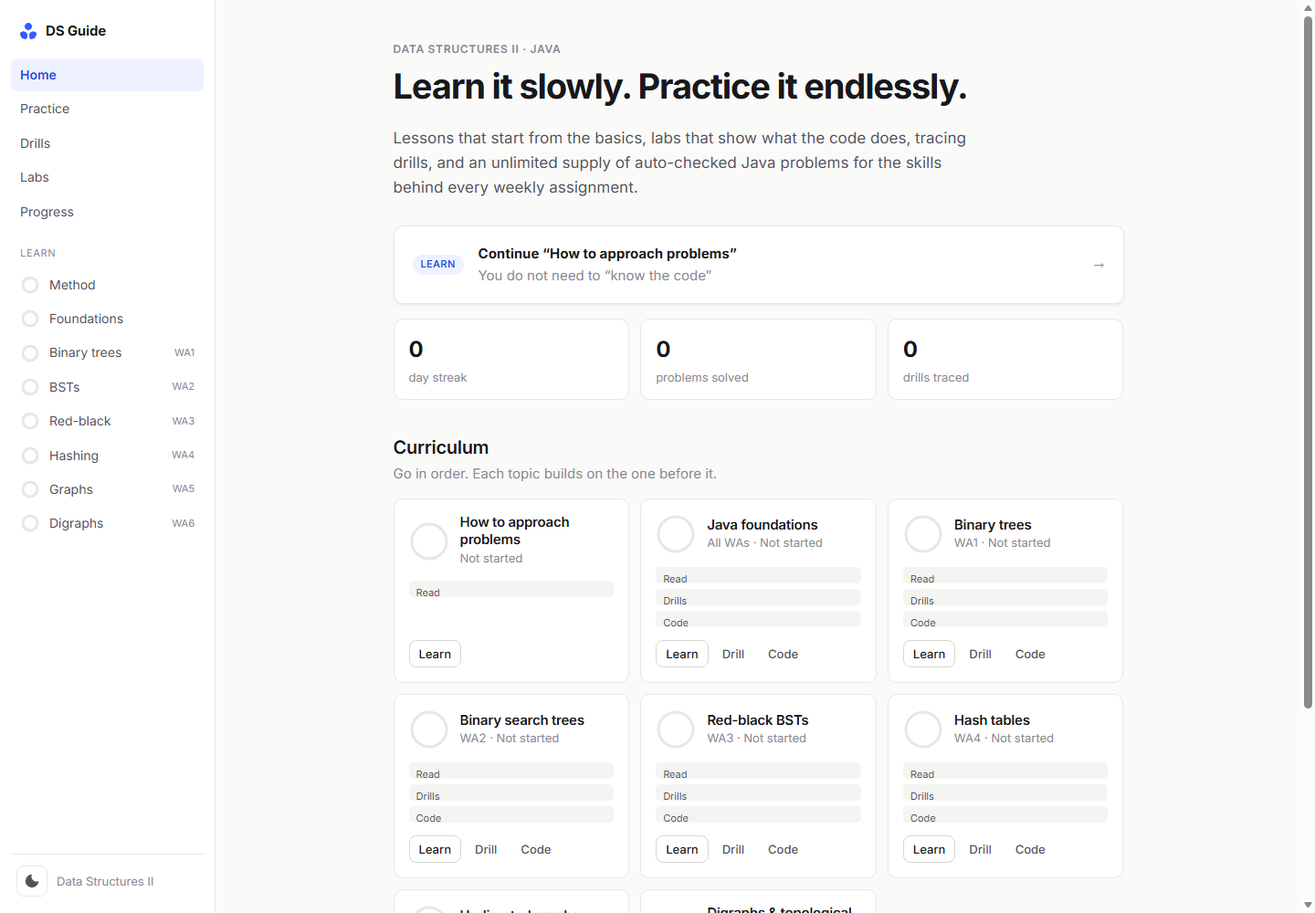
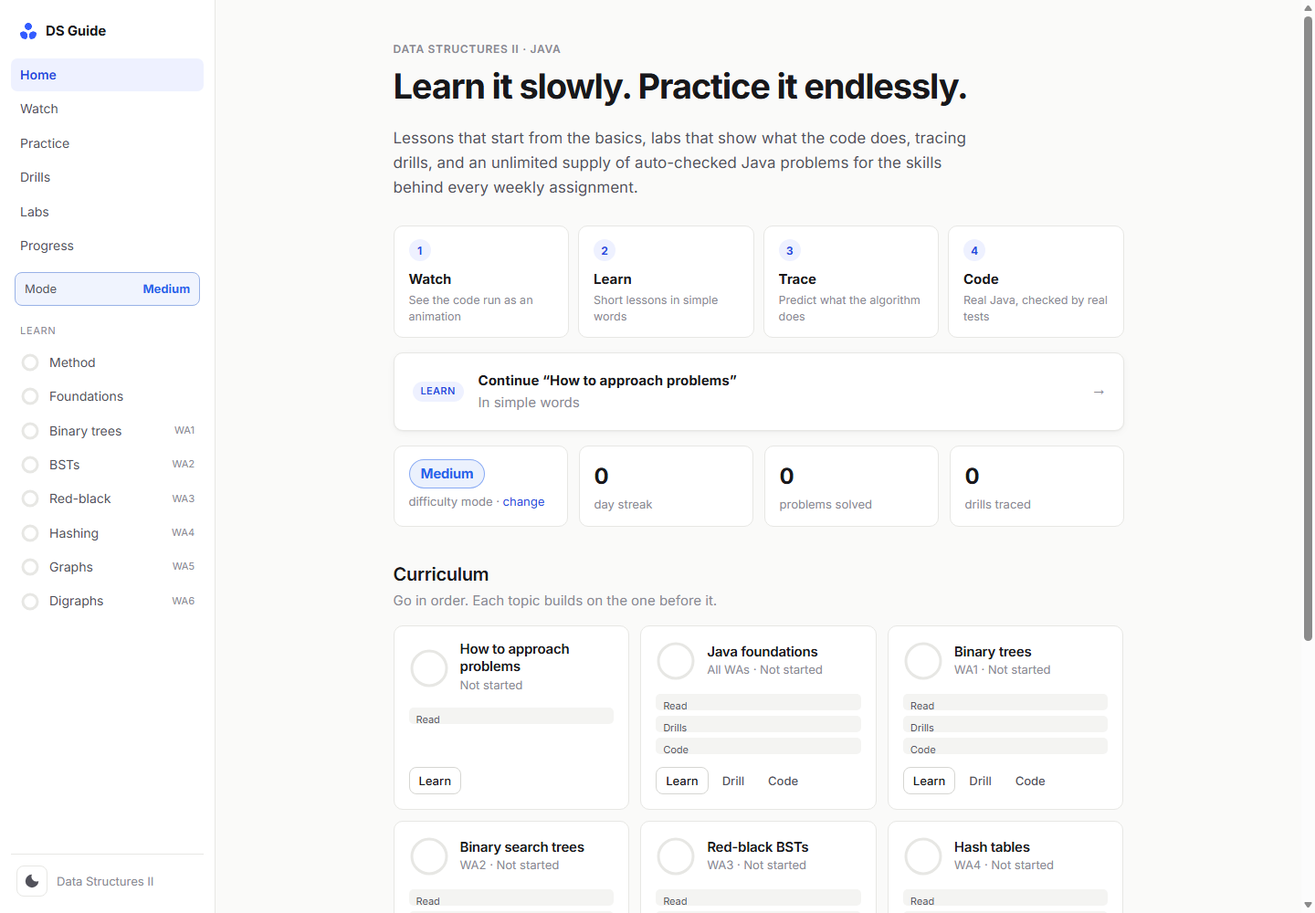
docs: v2.0.0 README, CHANGELOG and screenshots
README covers modes, animations, the security model and architecture;
CHANGELOG lists every change grouped as Security, Added, Changed and
Fixed. Version bumped to 2.0.0.

diff --git a/README.md b/README.md
@@ -2,16 +2,17 @@
 
 # Data Structures Guide
 
-**An interactive, self-hosted study platform for Data Structures II in Java.**
-Lessons that start from the basics, visual labs, randomized tracing drills, and an unlimited generator of auto-graded Java coding problems.
+**A self-hosted, interactive platform for learning data structures in Java, from "what is a variable?" to interview-level problems.**
+Animated code walkthroughs, lessons in simple words, tracing drills, and an unlimited generator of auto-graded Java problems across five difficulty modes.
 
+![Version](https://img.shields.io/badge/version-2.0.0-335CFF)
 ![Node](https://img.shields.io/badge/Node.js-18%2B-339933?logo=node.js&logoColor=white)
 ![Java](https://img.shields.io/badge/Java-11%2B-ED8B00?logo=openjdk&logoColor=white)
 ![Dependencies](https://img.shields.io/badge/dependencies-0-success)
-![Build](https://img.shields.io/badge/build%20step-none-blue)
-![Problems](https://img.shields.io/badge/problem%20variants-97-7c3aed)
+![Problems](https://img.shields.io/badge/problem%20variants-112-7c3aed)
+![Animations](https://img.shields.io/badge/animated%20walkthroughs-12-0f766e)
 
-<img src="docs/screenshots/home.png" alt="Dashboard" width="860">
+<img src="docs/screenshots/watch-llrb.png" alt="Animated red-black tree walkthrough" width="880">
 
 </div>
 
@@ -19,47 +20,69 @@ Lessons that start from the basics, visual labs, randomized tracing drills, and 
 
 ## Table of contents
 
-- [Overview](#overview)
+- [Why this exists](#why-this-exists)
 - [Features](#features)
+- [Difficulty modes](#difficulty-modes)
 - [Screenshots](#screenshots)
 - [Quick start](#quick-start)
 - [How it works](#how-it-works)
+- [Security model](#security-model)
 - [Curriculum](#curriculum)
 - [Project structure](#project-structure)
 - [Development](#development)
+- [Changelog](#changelog)
 - [Academic integrity](#academic-integrity)
 
-## Overview
+## Why this exists
 
-Data Structures Guide turns a data structures course into a guided path: **learn → visualize → trace → code → master**.
+Most people get stuck on data structures for one of two reasons: they can't *see* what the code is doing, or they never get enough practice. This project fixes both:
 
-Every coding problem is generated from a template with a random seed, so you get a new variant with fresh test data each time. Your Java code is compiled by a real JDK and run against a hidden test harness on your own machine. The feedback shows what matters for learning: expected vs. actual values, the exact line of a crash, infinite-loop detection, and your own `System.out` output.
-
-It runs entirely locally. There are no accounts, no cloud, no build step, and no npm packages.
+1. **Watch.** Every core algorithm is animated. The line of Java being run lights up, the tree, stack, table or graph moves on screen, and one short sentence explains what just happened.
+2. **Learn.** Each topic opens with an *In simple words* section, written at a 6th-grade reading level, before going deeper.
+3. **Trace.** Randomized drills ask you to predict what an algorithm will do, then show the worked answer.
+4. **Code.** Every click generates a fresh Java problem. Your code is compiled with a real JDK and checked by a hidden test suite.
 
 ## Features
 
 | | |
 |---|---|
-| **Structured lessons** | 8 topics and 60 bite-sized sections with highlighted Java, inline diagrams and check questions. It starts with *how to approach a problem* before any data structure. |
-| **Interactive labs** | BST insert/delete with step logs, red-black insertion next to the equivalent 2-3 tree, separate-chaining hash table with resizing, step-through DFS/BFS/DFS orders, and an expression parser. |
-| **Tracing drills** | 15 randomized drill types (traversals, Hibbard deletion, LLRB insertion, hash indices, DFS/BFS order, topological sort…), each with a worked step-by-step explanation. |
-| **Problem generator** | 30 problem types and 97 variants. Each one ships a starter file, a hidden test harness, a hint ladder, an approach guide and a reference solution. You can generate a single problem or a whole practice set. |
-| **Real compilation** | Code is compiled with `javac` and run in a throwaway sandbox with per-test timeouts. Compile errors link to the offending line in the editor. |
-| **Mastery tracking** | Per-topic mastery (reading 20%, drills 30%, coding 50%). A problem type is mastered after two clean solves of different variants. Includes adaptive difficulty, a streak counter, and progress export/import. |
-| **Learning-first design** | Hints unlock one at a time. Solutions unlock only after genuine attempts. Recursion problems flag loops. |
-| **Polished UI** | Minimal design, light and dark themes, responsive layout, keyboard shortcuts (<kbd>Ctrl</kbd>+<kbd>Enter</kbd> runs tests). |
+| **Animated walkthroughs** | 12 step-by-step animations with code highlighting, plain-words narration, live variables, play/step/scrub/speed controls, keyboard shortcuts and **read-aloud**. Nodes really move: rotations slide, successors travel, keys fly to new buckets on resize. |
+| **Teaching for everyone** | "In simple words" sections built on everyday comparisons (guessing games, mailboxes, nesting dolls), "Big idea" boxes, "Words to know" lists, hover glossary tooltips, and a "Read to me" button on every lesson. |
+| **Five difficulty modes** | Easy → Medium → Hard → Very hard → Extreme. The mode controls problem levels, starter-code scaffolding, hint limits, examples, solution unlocking and an interview clock. |
+| **Problem generator** | 38 problem types and **112 variants**, from recursion warm-ups to red-black deletion and strongly connected components. Every problem has fresh random test data. |
+| **Real compilation** | Code is compiled with `javac` and run in a sandbox with per-test timeouts. You see expected vs. actual values, crash lines, infinite-loop detection and your own `System.out` output. |
+| **Tracing drills** | 15 randomized drill types whose input size follows your mode, each with a step-by-step explanation. |
+| **Interactive labs** | BST, red-black (with the matching 2-3 tree), hash table, graph search and expression-parsing sandboxes. |
+| **Mastery tracking** | Per-topic mastery (reading 20%, drills 30%, coding 50%). A problem type is mastered after two clean solves of different variants. Includes a streak counter and progress export/import. |
+| **Protected answers** | Hidden tests and reference solutions never reach the browser (see [Security model](#security-model)). |
+| **Polished UI** | Minimal design, light and dark themes, responsive layout, `prefers-reduced-motion` support, zero dependencies, no build step. |
+
+## Difficulty modes
+
+| Mode | Problem levels | Starter code | Hints | Examples | Solution unlocks |
+|---|---|---|---|---|---|
+| 🟢 **Easy** | 1 | Step-by-step plan written into the code | All | All | After 1 run |
+| 🔵 **Medium** | 1–2 | Normal | All | All | After a real attempt |
+| 🟠 **Hard** | 2–3 | Lean comments | 2 | All | After 4 runs |
+| 🔴 **Very hard** | 3–4 | Bare signatures | 1 | 1 | Only after passing |
+| 🟣 **Extreme** | 4–5 | Bare signatures | 0 | 0 | Only after passing · 30-min clock |
+
+All of these rules are enforced by the server, not the browser.
 
 ## Screenshots
 
 <table>
   <tr>
-    <td width="50%"><img src="docs/screenshots/problem.png" alt="Problem workspace"><p align="center"><sub>Problem workspace: task, hints and a real Java editor</sub></p></td>
-    <td width="50%"><img src="docs/screenshots/lesson.png" alt="Lesson"><p align="center"><sub>Lessons with highlighted code and embedded labs</sub></p></td>
+    <td width="50%"><img src="docs/screenshots/watch-dfs.png" alt="DFS walkthrough"><p align="center"><sub>Depth-first search with the call stack and visit order</sub></p></td>
+    <td width="50%"><img src="docs/screenshots/watch-hash.png" alt="Hash walkthrough"><p align="center"><sub>Hash table with chaining, mid-insert</sub></p></td>
   </tr>
   <tr>
-    <td width="50%"><img src="docs/screenshots/graph-lab.png" alt="Graph lab"><p align="center"><sub>Step-through DFS / BFS with marked[], edgeTo[] and the call stack</sub></p></td>
-    <td width="50%"><img src="docs/screenshots/drills-dark.png" alt="Drills in dark mode"><p align="center"><sub>Randomized tracing drills (dark mode)</sub></p></td>
+    <td width="50%"><img src="docs/screenshots/lesson-simple.png" alt="Simple words lesson"><p align="center"><sub>"In simple words" lesson with an embedded animation</sub></p></td>
+    <td width="50%"><img src="docs/screenshots/practice-modes.png" alt="Modes"><p align="center"><sub>Problem generator with five difficulty modes</sub></p></td>
+  </tr>
+  <tr>
+    <td width="50%"><img src="docs/screenshots/problem.png" alt="Problem workspace"><p align="center"><sub>Problem workspace with a real Java editor</sub></p></td>
+    <td width="50%"><img src="docs/screenshots/drills-dark.png" alt="Drills in dark mode"><p align="center"><sub>Tracing drills (dark mode)</sub></p></td>
   </tr>
 </table>
 
@@ -68,9 +91,7 @@ It runs entirely locally. There are no accounts, no cloud, no build step, and no
 **Requirements**
 
 - [Node.js](https://nodejs.org/) 18 or newer
-- A JDK (11+). The server auto-detects `JAVA_HOME`, your `PATH`, common install locations, and the JDK bundled with IntelliJ IDEA.
-
-**Run**
+- A JDK (11+). It is auto-detected from `JAVA_HOME`, your `PATH`, common install locations, and the JDK bundled with IntelliJ IDEA.
 
 ```bash
 git clone https://github.com/Kuzma12/DataStructuresGuide.git
@@ -78,82 +99,102 @@ cd DataStructuresGuide
 npm start
 ```
 
-On Windows you can also double-click **`start.bat`**. The site opens at **http://localhost:4317**.
-
-> The JDK status appears on the **Progress** page. Lessons, labs and drills work even without a JDK; only code checking needs it.
+On Windows, double-click **`start.bat`**. The site opens at **http://localhost:4317**. Lessons, animations, labs and drills work without a JDK; only code checking needs one.
 
 ## How it works
 
 ```
-Browser (vanilla ES modules)                     Local Node server (no dependencies)
-┌─────────────────────────────┐   POST /api/run  ┌──────────────────────────────────┐
-│ template + seed             │ ───────────────▶ │ temp dir per run                 │
-│  → starter, hidden harness, │   your code +    │ javac -g  →  java Main results   │
-│    hints, solution          │   harness files  │ per-test thread with 3 s timeout │
-│ CodeMirror editor           │ ◀─────────────── │ parsed PASS / FAIL / ERROR       │
-│ results, mastery, progress  │   JSON results   │ directory removed afterwards     │
-└─────────────────────────────┘                  └──────────────────────────────────┘
+Browser (vanilla ES modules)                           Local Node server (zero dependencies)
+┌───────────────────────────────────┐  GET /api/problem ┌───────────────────────────────────────┐
+│ lessons · animations · drills     │ ────────────────▶ │ template + seed + mode                │
+│ catalog (public metadata only)    │ ◀──────────────── │  → story, task, scaffolded starter    │
+│ CodeMirror editor                 │  POST /api/run    │ harness rebuilt server-side           │
+│ results, mastery, progress        │ ────────────────▶ │ javac -g → java Main (3 s per test)   │
+│                                   │ ◀──────────────── │ PASS / FAIL / ERROR + unlock status   │
+│                                   │  POST /api/hint   │ hint / solution released only if the  │
+│                                   │  POST /api/solution│ mode's rules are met (data/progress) │
+└───────────────────────────────────┘                   └───────────────────────────────────────┘
 ```
 
 - **Deterministic generation.** A seeded PRNG rebuilds the same problem from `(templateId, seed)`, so every problem has a stable URL.
-- **Test harness.** Each problem generates a `Main.java` that extends a small `TestKit`. It compares your results against a reference implementation over random inputs and reports human-readable diffs.
-- **Sandboxing.** Runs use a unique temp directory, validated file names, size limits, a serialized queue and hard timeouts. The server listens on `127.0.0.1` only.
+- **Test harness.** Each problem generates a `Main.java` that extends a small `TestKit`. It compares your results against a reference implementation over random inputs and reports readable diffs.
+- **Animation engine.** Algorithms record frames (`{line, say, scene, vars}`). A keyed SVG renderer tweens shapes between frames, so the same node visibly moves instead of being redrawn.
+
+## Security model
+
+| Concern | Protection |
+|---|---|
+| Reading hidden tests or solutions in DevTools | Generators, harnesses and solutions live in `server/problems/` and are never served. Public payloads are checked for leaks by the smoke test in every mode. |
+| Tampering with tests | `/api/run` takes only your code. The server rebuilds the harness itself. |
+| Unlocking help early | Hints and solutions are released by the server according to the mode and the server-side progress record. |
+| Browsing server files | Allow-list of file types under `public/` only. Dotfiles and `package.json` are blocked, and path traversal returns 404. |
+| Malicious websites calling the local server | Host-header validation (DNS rebinding), rejection of cross-origin POSTs, and binding to `127.0.0.1` only. |
+| Injected content | A strict Content-Security-Policy plus `X-Frame-Options`, `nosniff`, `Referrer-Policy` and COOP. |
+| Runaway code | One compile at a time, per-test thread timeouts, process timeouts, output caps, and a temp directory deleted after every run. |
 
 ## Curriculum
 
-| # | Topic | Key skills | Example problem types |
+| # | Topic | Key skills | Animation |
 |---|---|---|---|
 | 0 | How to approach problems | 6-step method, recursion "leap of faith", reading failing tests | – |
-| 1 | Java foundations | references and null, generics/`compareTo`, `ArrayList`, recursion, stacks/queues, parsing | recursion, stack evaluation, text parsing |
-| 2 | Binary trees | tree recursion, pre/in/post/level order, expression trees | metrics, traversals, expression trees |
-| 3 | Binary search trees | put/get with sizes, floor/ceiling/rank/select, range queries, Hibbard deletion | put & get, ordered ops, deletion, client code |
-| 4 | Red-black BSTs | 2-3 trees, rotations, color flips, balanced insertion | rotations, LLRB put, invariant checks |
-| 5 | Hash tables | `hashCode`, modular hashing, separate chaining, resizing | hash functions, chains, resizing table |
-| 6 | Undirected graphs | adjacency matrix vs. lists, DFS, BFS, paths, components | representations, DFS/BFS, applications |
-| 7 | Digraphs | symbol graphs, DFS orders, cycle detection, topological sort | DFS orders, topo sort, symbol digraphs |
+| 1 | Java foundations | references and null, generics/`compareTo`, `ArrayList`, recursion, stacks/queues, parsing | Recursion · Postfix stack |
+| 2 | Binary trees | tree recursion, traversals, expression trees | Traversals · Level order |
+| 3 | Binary search trees | put/get with sizes, ordered ops, ranges, Hibbard deletion | Search · Insert · Delete |
+| 4 | Red-black BSTs | 2-3 trees, rotations, color flips, balanced insertion | Red-black insertion |
+| 5 | Hash tables | `hashCode`, modular hashing, chaining, probing, resizing | Hash table with chaining |
+| 6 | Undirected graphs | adjacency matrix and lists, DFS, BFS, paths, components | DFS · BFS |
+| 7 | Digraphs | symbol graphs, DFS orders, cycles, topological sort, SCCs | Topological sort |
 
 ## Project structure
 
 ```
 DataStructuresGuide/
 ├── server/
-│   ├── server.js        # static file server + JSON API (health, run)
-│   └── java.js          # JDK discovery, compile/run sandbox, output parsing
+│   ├── server.js          # static allow-list, security headers, JSON API
+│   ├── java.js            # JDK discovery, compile/run sandbox, output parsing
+│   ├── progress.js        # server-side runs / passes / hints / peeks (gates help)
+│   └── problems/          # 🔒 never served: generators, harnesses, solutions, modes
+│       ├── service.js     #    modes, scaffolding, hint and solution gating
+│       ├── kit.js         #    TestKit + harness helpers
+│       └── *.js           #    problem templates per topic (+ advanced.js, levels 4–5)
 ├── public/
 │   ├── index.html
-│   ├── css/style.css    # design tokens, light/dark themes, responsive layout
+│   ├── css/style.css
 │   └── js/
-│       ├── main.js      # app shell + hash router
-│       ├── views/       # home, learn, practice, problem, drills, labs, progress
-│       ├── lessons/     # lesson content, one module per topic
-│       ├── problems/    # problem templates (starter, harness, hints, solution)
-│       ├── drills.js    # randomized tracing drills
-│       ├── labs.js      # interactive labs
-│       ├── ds.js        # JS data structures used by labs, drills and diagrams
-│       ├── viz.js       # SVG renderers (trees, 2-3 trees, graphs, hash chains)
-│       └── store.js     # progress, drafts and mastery (localStorage)
+│       ├── anim/          # stage (tweened SVG), scenes, player, 12 walkthroughs
+│       ├── views/         # home, watch, learn, practice, problem, drills, labs, progress
+│       ├── lessons/       # lesson content + "In simple words" + glossary
+│       ├── catalog.js     # public problem metadata + modes (fetched from the server)
+│       ├── drills.js · labs.js · ds.js · viz.js · store.js · editor.js
 ├── tools/
-│   ├── verify.js        # compiles every variant: solutions pass, starters compile
-│   ├── smoke.mjs        # imports every module and generates thousands of items
-│   └── scenarios.mjs    # sends common learner mistakes through the live API
+│   ├── verify.js          # every variant: the reference passes, the starter compiles
+│   ├── verify-modes.mjs   # every scaffolded starter compiles (Easy / Hard / Very hard)
+│   ├── smoke.mjs          # drills at 5 levels, all walkthrough frames, leak checks
+│   └── scenarios.mjs      # learner-mistake feedback through the live API
 ├── docs/screenshots/
-├── start.bat
-└── package.json
+├── CHANGELOG.md
+└── start.bat
 ```
 
 ## Development
 
 ```bash
-npm run verify             # every problem variant: reference passes all tests, starter compiles
-node tools/smoke.mjs       # module imports + 3,000 generated drills + all problem variants
-node tools/scenarios.mjs   # compile error / crash / timeout / wrong-answer feedback (server must be running)
+npm run verify                  # reference solutions pass, starters compile (all variants)
+node tools/verify-modes.mjs     # scaffolded starters compile in every scaffold style
+node tools/smoke.mjs            # thousands of generated drills, frames and payload leak checks
 ```
 
-**Adding a problem type:** add a template to `public/js/problems/<topic>.js` that exports `id`, `topic`, `level`, `variants` and `generate(rng, seed, variant)`. Return the starter file, harness body, hints, approach and solution, then run `npm run verify`.
+**Adding a problem type:** add a template to `server/problems/<topic>.js` exporting `id`, `topic`, `level` (1–5), `variants` and `generate(rng, seed, variant)`, then run the verifiers.
+
+**Adding an animation:** add a walkthrough to `public/js/anim/walkthroughs.js` with `code`, `inputs` and `build(inputs)`. `build` returns frames `{ line, say, scene, vars }`, built from the scene helpers in `scenes.js`.
+
+## Changelog
+
+See [CHANGELOG.md](CHANGELOG.md). **v2.0.0** adds animations, five difficulty modes, 8 advanced problem types, simple-words teaching, and server-side protection of hidden files.
 
 ## Academic integrity
 
-The practice problems are intentionally *different* from graded course assignments. They train the same underlying skills, so learners can then complete their own coursework independently. This project does not contain solutions to any course assignment.
+The practice problems are intentionally *different* from graded course assignments. They train the same underlying skills, so learners can complete their own coursework independently. This project contains no solutions to any course assignment.
 
 ---
 

diff --git a/CHANGELOG.md b/CHANGELOG.md
@@ -1,0 +1,49 @@
+# Changelog
+
+All notable changes to this project are documented here. The format follows
+[Keep a Changelog](https://keepachangelog.com/en/1.1.0/), and the project uses
+[Semantic Versioning](https://semver.org/).
+
+## [2.0.0] - 2026-10-31
+
+A major upgrade focused on visual teaching, difficulty modes and protecting hidden files.
+
+### Security
+- **Hidden files stay on the server.** Problem generators, hidden test harnesses and reference solutions moved from `public/` to `server/problems/`. The browser now only receives the public parts of a problem (story, task, starter code, provided files).
+- **Tests run server-side from the server's own copy.** `/api/run` accepts only the learner's code. The harness is rebuilt on the server, so tests cannot be read or tampered with from the browser.
+- **Server-enforced hints and solutions.** Hints and solutions are released one at a time by `/api/hint` and `/api/solution` according to the active mode and a server-side progress record (`data/progress.json`).
+- **Static file allow-list.** Only `.html/.js/.css/.svg/.png/.ico` under `public/` are served. Dotfiles and `package.json` are blocked, and path traversal returns 404.
+- **Hardened HTTP.** Added a Content-Security-Policy, `X-Frame-Options: DENY`, `nosniff`, `Referrer-Policy` and `Cross-Origin-Opener-Policy`. Host-header validation blocks DNS rebinding, and cross-origin POSTs are rejected. Request bodies are capped at 256 KB and code at 100 KB.
+- Removed the inline event handler from `index.html` so the strict CSP applies.
+
+### Added
+- **Five difficulty modes:** Easy, Medium, Hard, Very hard and Extreme. Each mode controls which problem levels are generated, how much scaffolding the starter code contains (a step-by-step plan, normal, lean, or bare signatures), how many hints are allowed, how many examples are shown, and when the solution unlocks. Extreme adds a 30-minute clock. The mode is selectable on the Practice page and shown in the sidebar and on the home page.
+- **8 new advanced problem types** (15 variants) at levels 4 and 5: infix evaluation and shunting-yard, rebuilding a tree from traversals, serialize/deserialize, max path sum, balanced BST rebuild, the AVL balance check, BFS on grid mazes, flood-fill room counting, linear-probing put/get and delete, red-black `deleteMin`/`deleteMax`, and Kosaraju-Sharir strong components.
+- **Animated walkthrough engine** (`public/js/anim/`): a keyed SVG renderer with tweening, so nodes slide during rotations, deletions and resizes. A player highlights each Java line as it runs, explains every step in plain words, shows live variables, and has play/step/scrub/speed controls, keyboard shortcuts and **read-aloud** narration.
+- **12 animated walkthroughs:** recursion and the call stack, postfix evaluation, pre/in/post-order traversal, level order, BST search, BST insert, Hibbard deletion, red-black insertion, hash table with chaining and resizing, DFS, BFS, and topological sort. Every input is editable, with a Random button.
+- **Watch page** (`#/watch`) with a gallery and a full-screen player. Steps can be deep-linked (`#/watch/<id>/<step>`).
+- **"In simple words" section** at the start of every topic, written at a 6th-grade reading level, with everyday comparisons, a "Big idea" box, a "Words to know" list and an embedded animation.
+- **Glossary tooltips:** key terms in lessons explain themselves on hover or tap.
+- **"Read to me"** button on every lesson section (browser speech synthesis).
+- Animations embedded in key lesson sections (stacks, traversals, BST search/delete, red-black insertion, BFS, topological sort).
+- Problem pages link to the matching animation.
+- A learning-path strip on the home page (Watch → Learn → Trace → Code).
+- `tools/verify-modes.mjs` compiles every scaffolded starter in every scaffold style.
+
+### Changed
+- Drills scale with the mode: Easy uses smaller trees and graphs, and Extreme uses larger ones.
+- Drill graphs are now always connected (a random spanning tree plus extra edges), so traces are never trivial.
+- Difficulty badges now show 5 levels, color-coded by mode.
+- The Practice page is rebuilt around the mode picker, and problem types in the current mode's range are highlighted.
+- Running the server while it is already running now opens the browser instead of crashing.
+- `tools/smoke.mjs` now also builds every walkthrough frame, checks drills at all 5 levels, and asserts that no harness or solution leaks into public problem payloads in any mode.
+
+### Fixed
+- Code-font ligatures (for example `==` drawn as one glyph) are disabled everywhere code is shown.
+- Mobile layout overflow in lessons, the workspace and the labs.
+- Null-pointer messages now show real parameter names (compiled with `-g`).
+
+## [1.0.0] - 2026-10-30
+
+### Added
+- First release: 8 topics of lessons, 6 interactive labs, 15 tracing drill types, and 30 auto-graded Java problem types (97 variants) compiled with the local JDK, with mastery tracking, light/dark themes and a zero-dependency Node server.
